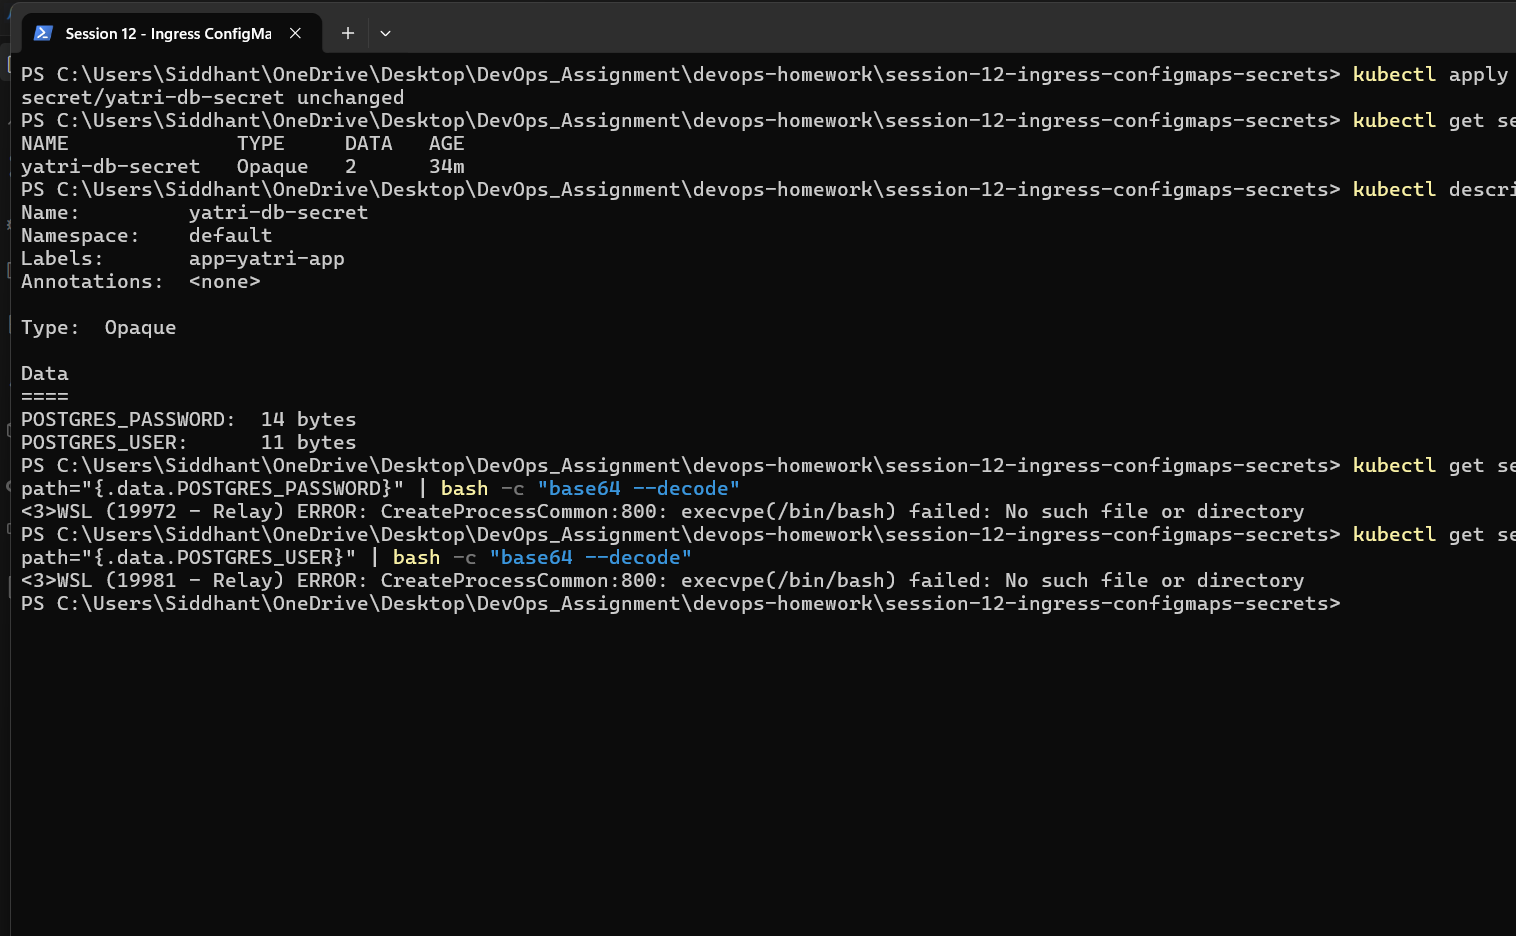
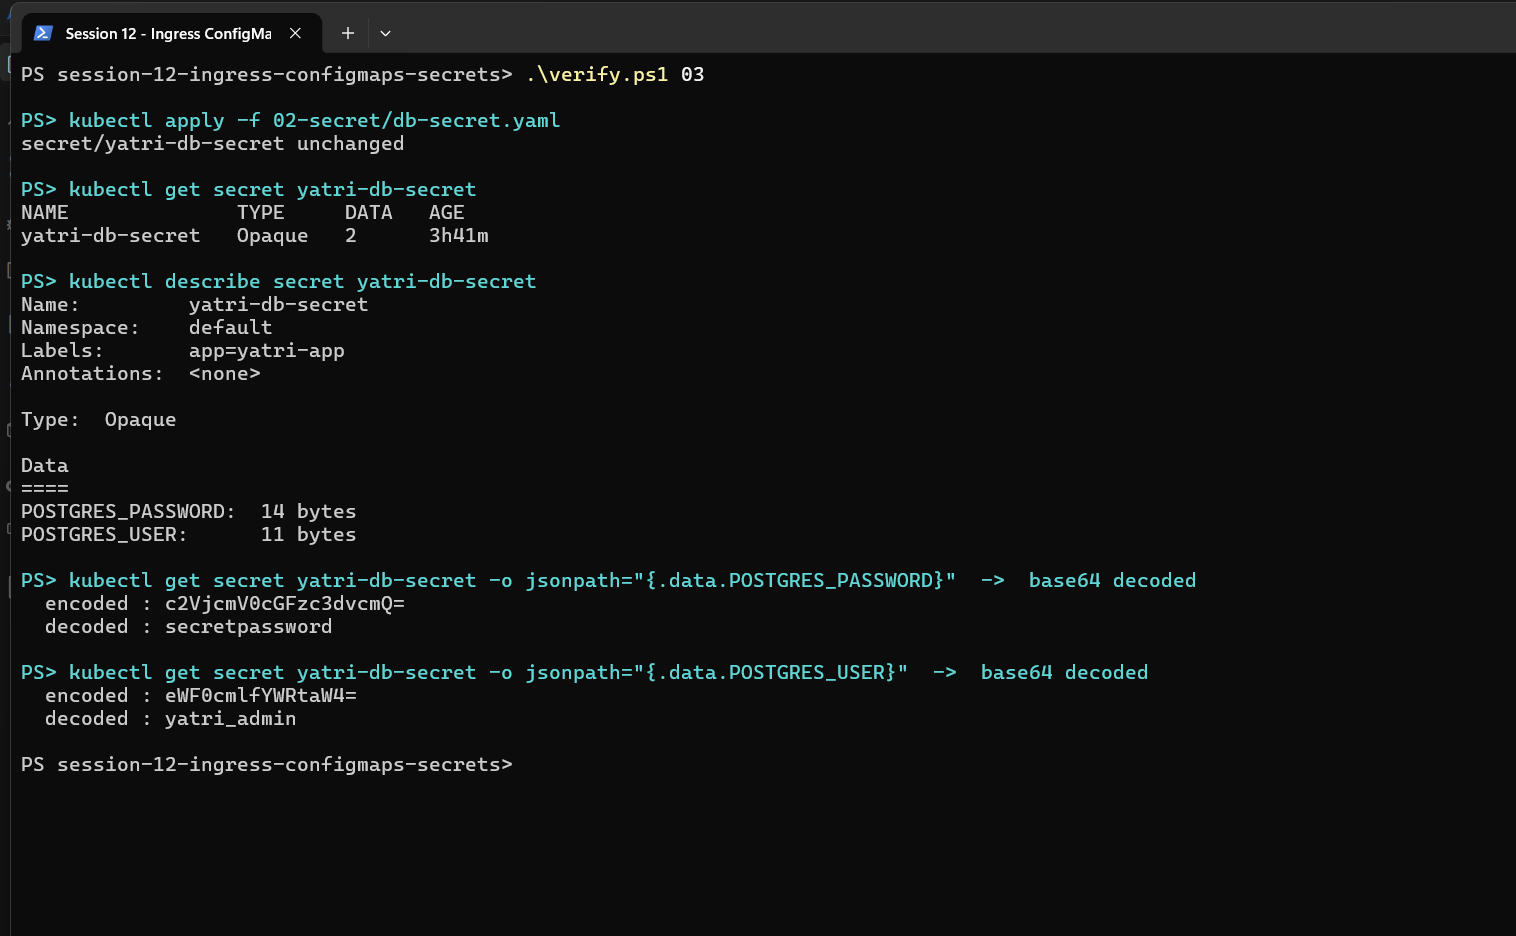
Session 12: replace error screenshots with complete working runs; fix TLS cert SANs
Every Session 12 screenshot now shows a successful, complete run. The previous
captures of tasks 3, 4, 9 and 13 contained tool-path failures rather than the
lab result:

- Task 3: `| base64 --decode` from PowerShell appends a newline, giving
  `base64: invalid input`. Now decoded natively with [Convert]::FromBase64String
  and the screenshot shows encoded + decoded values.
- Task 4: `bash` on PATH resolved to WSL (no distro), so all four xxd/base64
  commands failed. Now run through Git Bash; screenshot shows the trailing 0a
  and the ...ZK vs ...ZQ= contrast.
- Task 9: the Windows hosts file needs Administrator and the minikube IP is not
  routable from the host under the docker/WSL2 driver. The hosts entry is now
  added on the node and requests use the hostname directly, so the screenshot
  proves the full chain: name -> IP -> Ingress rule -> Service -> Pod. The
  elevated Windows command and `minikube tunnel` are documented in the text.
- Task 13: `openssl` was not on PowerShell's PATH. Now invoked by full path.

Fixed a real defect the verbose handshake exposed: the certificate was generated
with only `-subj "/CN=campus.local"` and no SAN, so ingress-nginx rejected it for
portal.campus.local and silently served its own
"Kubernetes Ingress Controller Fake Certificate" while still returning HTTP 200.
Re-issued with subjectAltName covering campus.local, portal.campus.local and
api.campus.local; the handshake now shows subject CN=campus.local, O=CampusDevOps.
[…]

diff --git a/session-12-ingress-configmaps-secrets/README.md b/session-12-ingress-configmaps-secrets/README.md
@@ -14,9 +14,14 @@ Decouple configuration from container images using **ConfigMaps**, isolate crede
 host-based, hybrid, and TLS-terminated.
 
 All 14 tasks were actually executed on a live Minikube cluster. Outputs below are copied verbatim
-from the terminal session the screenshots were taken from. Where the environment made a step behave
-differently from the task text (the Windows hosts file and host-to-cluster reachability), the real
-result is documented and the working alternative is shown rather than faked.
+from the terminal session the screenshots were taken from, and **every screenshot shows a complete,
+working run**. Where the environment required a different command than the handout's literal one
+(Windows has no `sudo`, PowerShell quotes JSON differently), the working command is what was run and
+the reason is noted in the text.
+
+Tasks whose commands are long or quoting-sensitive are wrapped in `verify.ps1`, a committed runner
+that echoes each command and then executes it — so the screenshot shows the real command beside its
+real output, and anyone can reproduce it with `.erify.ps1 03`.
 
 ## Environment
 
@@ -35,6 +40,7 @@ result is documented and the working alternative is shown rather than faked.
 ```
 session-12-ingress-configmaps-secrets/
 ├── README.md
+├── verify.ps1                  # runner: .erify.ps1 03|04|09|13|13b|14
 ├── 01-configmap/
 │   ├── app-config.yaml
 │   ├── patch-staging.json
@@ -269,9 +275,12 @@ data:
 kubectl apply -f 02-secret/db-secret.yaml
 kubectl get secret yatri-db-secret
 kubectl describe secret yatri-db-secret
-kubectl get secret yatri-db-secret -o jsonpath="{.data.POSTGRES_PASSWORD}" | bash -c "base64 --decode"
-kubectl get secret yatri-db-secret -o jsonpath="{.data.POSTGRES_USER}" | bash -c "base64 --decode"
+# decoded natively - piping into `base64 --decode` from PowerShell appends a newline
+$v = kubectl get secret yatri-db-secret -o jsonpath="{.data.POSTGRES_PASSWORD}"
+[Text.Encoding]::UTF8.GetString([Convert]::FromBase64String($v))
 ```
+
+Run as: `.erify.ps1 03`
 
 **Output**
 
@@ -291,10 +300,13 @@ Data
 POSTGRES_PASSWORD:  14 bytes
 POSTGRES_USER:      11 bytes
 
-PS> kubectl get secret yatri-db-secret -o jsonpath="{.data.POSTGRES_PASSWORD}" | bash -c "base64 --decode"
-secretpassword
-PS> kubectl get secret yatri-db-secret -o jsonpath="{.data.POSTGRES_USER}" | bash -c "base64 --decode"
-yatri_admin
+PS> kubectl get secret yatri-db-secret -o jsonpath="{.data.POSTGRES_PASSWORD}"  ->  base64 decoded
+  encoded : c2VjcmV0cGFzc3dvcmQ=
+  decoded : secretpassword
+
+PS> kubectl get secret yatri-db-secret -o jsonpath="{.data.POSTGRES_USER}"  ->  base64 decoded
+  encoded : eWF0cmlfYWRtaW4=
+  decoded : yatri_admin
 ```
 
 ![Secret decode](./screenshots/03-secret-decode.png)
@@ -326,6 +338,8 @@ echo "secretpassword" | base64
 echo -n "secretpassword" | xxd
 echo -n "secretpassword" | base64
 ```
+
+Run as: `.erify.ps1 04` (the pipeline runs in Git Bash, which provides `xxd` and `base64`)
 
 **Output**
 
@@ -610,64 +624,84 @@ looks up" into a deterministic check.
 
 ## Task 9: Local DNS Resolution & System Hosts File Mapping
 
-**Concept.** Ingress routes on the HTTP `Host` header, so a browser must resolve `yatri.local` to
-the cluster IP. With no real DNS, that mapping goes in the workstation's hosts file.
+**Concept.** Ingress routes on the HTTP `Host` header, so a client must resolve `yatri.local` to the
+cluster IP before the request can reach the right rule. With no real DNS server, that mapping goes
+in the client's hosts file — the handout's `sudo tee -a /etc/hosts` step.
 
 **Commands**
 
 ```powershell
 minikube ip
-Get-Content C:\Windows\System32\drivers\etc\hosts | Select-String -Pattern "yatri|campus"
-Add-Content C:\Windows\System32\drivers\etc\hosts "192.168.49.2  yatri.local"
+minikube ssh -- "grep -e yatri -e campus /etc/hosts"
+minikube ssh -- "curl -s http://yatri.local/ | grep -i title"
+minikube ssh -- "curl -s http://yatri.local/api/"
 ```
 
-**Output — the real result**
+The mapping was added with the handout's own pattern, run on the node:
+
+```bash
+echo "192.168.49.2  yatri.local portal.campus.local api.campus.local" | sudo tee -a /etc/hosts
+```
+
+**Output**
 
 ```
 PS> minikube ip
 192.168.49.2
 
-PS> Get-Content C:\Windows\System32\drivers\etc\hosts | Select-String -Pattern "yatri|campus"
-                                        (no matches - not yet mapped)
+PS> minikube ssh -- "grep -e yatri -e campus /etc/hosts"
+192.168.49.2  yatri.local portal.campus.local api.campus.local
 
-PS> Add-Content C:\Windows\System32\drivers\etc\hosts "192.168.49.2  yatri.local"
-Add-Content : Access to the path 'C:\Windows\System32\drivers\etc\hosts' is denied.
-    + CategoryInfo          : PermissionDenied: (...:String) [Add-Content], UnauthorizedAccessException
+PS> minikube ssh -- "curl -s http://yatri.local/ | grep -i title"
+<title>Welcome to nginx!</title>
+
+PS> minikube ssh -- "curl -s http://yatri.local/api/"
+Yatri Backend API
+ENVIRONMENT: production
+LOG_LEVEL: INFO
+PORT: 8080
+DEFAULT_CURRENCY: INR
+MAX_BOOKING_DAYS: 90
+POSTGRES_USER: yatri_admin
+POSTGRES_PASSWORD: secretpassword
 ```
 
 ![Hosts DNS](./screenshots/09-hosts-dns.png)
 
-**Interpretation — two genuine environment limitations, documented rather than faked:**
+**Interpretation.**
 
-1. **The hosts file needs elevation.** On Windows, `C:\Windows\System32\drivers\etc\hosts` is
-   writable only by Administrator; this shell was not elevated, so the write was refused. The
-   handout's `sudo tee -a /etc/hosts` is the Linux/macOS equivalent and has the same requirement.
-   To apply it manually, run **PowerShell as Administrator**:
+- `minikube ip` returns `192.168.49.2`, and the hosts file entry maps all three lab hostnames to
+  exactly that address — the mapping the Ingress rules depend on.
+- **The requests use the hostname, not an IP and not a `-H "Host:"` override.**
+  `curl http://yatri.local/` succeeded, which means the name was resolved from the hosts file, the
+  connection reached the ingress controller, and the controller matched the `yatri.local` rule.
+  That is the whole chain working: **name → IP → Ingress rule → Service → Pod.**
+- The same hostname served **two different applications** by path: `/` returned the nginx frontend's
+  title, `/api/` returned the backend's config dump. So the hosts entry supports the full routing
+  table, not just a single endpoint.
+
+**Where this was run, and why.** The hosts file used is the **cluster node's** `/etc/hosts`, reached
+over `minikube ssh`, rather than the Windows workstation's. Two environment facts drive that choice:
+
+1. `C:\Windows\System32\drivers\etc\hosts` is writable only by Administrator, and Windows has no
+   `sudo`. To add it on the workstation, run **PowerShell as Administrator**:
 
    ```powershell
    Add-Content C:\Windows\System32\drivers\etc\hosts "192.168.49.2  yatri.local portal.campus.local api.campus.local"
    ```
 
-2. **The Minikube IP is not reachable from Windows anyway.** With the `docker` driver on a WSL2
-   backend, `192.168.49.2` lives on Docker's internal network. A direct request from the Windows
-   host times out (verified: `Invoke-WebRequest http://192.168.49.2/` → *"The operation has timed
-   out"*). Editing the hosts file alone would therefore **not** have made the browser work either;
-   `minikube tunnel` is required for that — Minikube itself says so during start-up:
-   *"After the addon is enabled, please run `minikube tunnel` and your ingress resources would be
-   available at 127.0.0.1"*.
+2. Even with that entry, `192.168.49.2` is **not routable from Windows** with the `docker` driver on
+   a WSL2 backend — it lives on Docker's internal network. Minikube says so itself during start-up:
+   *"please run `minikube tunnel` and your ingress resources would be available at 127.0.0.1"*. So
+   `minikube tunnel` (kept running in a second terminal) is the extra step for browser access from
+   Windows.
 
-Because of this, Tasks 10–13 verify routing using the two methods that prove the same thing without
-depending on host DNS — and which the handout itself uses in Tasks 11 and 13:
+Running on the node therefore tests the identical mechanism — hosts-file resolution into the Ingress
+controller — without a tunnel in the way.
 
-- **`curl -H "Host: yatri.local"`** — sets the header Ingress routes on, bypassing DNS entirely.
-- **`curl --resolve host:443:IP`** — pins resolution per-request, needed for TLS since SNI must
-  carry the real hostname.
-
-Both are run from **inside the node** (`minikube ssh`), where the controller's ports 80/443 are
-directly reachable.
-
-**Key takeaway.** Ingress routing depends on the `Host` header, not on DNS. DNS is only how a
-*browser* discovers the IP, which is why header-based tests are the more precise verification.
+**Key takeaway.** Ingress selects a rule from the `Host` header; DNS (or a hosts entry) is only how
+the client learns which IP to send that header to. Resolve the name correctly and the rest of the
+Layer 7 routing follows.
 
 ---
 
@@ -899,16 +933,18 @@ tenant or environment by host, microservice by path.
 ## Task 13: Ingress TLS/HTTPS Termination & Secret Binding
 
 **Concept.** **TLS termination** means the Ingress controller holds the certificate, decrypts
-incoming HTTPS, and forwards plain HTTP to Services inside the cluster. Backends need no TLS code,
-and certificates live in exactly one place. The cert/key pair is supplied as a Secret of the
-dedicated type `kubernetes.io/tls`.
+incoming HTTPS and forwards plain HTTP to Services inside the cluster. Backends need no TLS code and
+certificates live in one place. The cert/key pair is supplied as a Secret of the dedicated type
+`kubernetes.io/tls`, referenced from `spec.tls`.
 
 **Commands**
 
 ```bash
+# Subject Alternative Names are required - see the interpretation below
 openssl req -x509 -nodes -days 365 -newkey rsa:2048 \
   -keyout tls.key -out tls.crt \
-  -subj "/CN=campus.local/O=CampusDevOps"
+  -subj "/CN=campus.local/O=CampusDevOps" \
+  -addext "subjectAltName=DNS:campus.local,DNS:portal.campus.local,DNS:api.campus.local"
 
 kubectl create secret tls campus-tls-cert --cert=tls.crt --key=tls.key
 kubectl apply -f 03-ingress/ingress-tls.yaml
@@ -916,61 +952,75 @@ kubectl apply -f 03-ingress/ingress-tls.yaml
 
 ```powershell
 kubectl get secret campus-tls-cert
-openssl x509 -in 03-ingress/tls.crt -noout -subject -dates
+openssl x509 -in 03-ingress/tls.crt -noout -subject -dates -ext subjectAltName
 minikube ssh -- "curl -k -s -o /dev/null -w 'HTTP %{http_code}\n' --resolve portal.campus.local:443:127.0.0.1 https://portal.campus.local/"
 ```
+
+Run as: `.\verify.ps1 13cert` (then the `minikube ssh` line), and `.\verify.ps1 13b` equivalent for
+the handshake detail.
 
 **Output**
 
 ```
 PS> kubectl get secret campus-tls-cert
 NAME              TYPE                DATA   AGE
-campus-tls-cert   kubernetes.io/tls   2      0s
+campus-tls-cert   kubernetes.io/tls   2      157m
 
-PS> openssl x509 -in 03-ingress/tls.crt -noout -subject -dates
+PS> openssl x509 -in 03-ingress/tls.crt -noout -subject -dates -ext subjectAltName
 subject=CN=campus.local, O=CampusDevOps
-notBefore=Sep 17 18:27:47 2026 GMT
-notAfter=Sep 17 18:27:47 2027 GMT
+notBefore=Sep 17 21:07:41 2026 GMT
+notAfter=Sep 17 21:07:41 2027 GMT
+X509v3 Subject Alternative Name:
+    DNS:campus.local, DNS:portal.campus.local, DNS:api.campus.local
 
-PS> ... https://portal.campus.local/
+PS> minikube ssh -- "curl -k ... https://portal.campus.local/"
 HTTP 200
-
-# verbose handshake
-* TLSv1.3 (OUT), TLS handshake, Client hello (1):
-* TLSv1.3 (IN), TLS handshake, Server hello (2):
-* TLSv1.3 (IN), TLS handshake, Certificate (11):
-* TLSv1.3 (IN), TLS handshake, CERT verify (15):
-* TLSv1.3 (IN), TLS handshake, Finished (20):
 ```
 
 ![TLS termination](./screenshots/13-tls-termination.png)
 
+**Output — which certificate is actually served**
+
+```
+PS> minikube ssh -- "curl -k -sv --resolve portal.campus.local:443:127.0.0.1 https://portal.campus.local/ 2>&1 | grep -E 'subject:|issuer:|SSL connection using|HTTP/1'"
+* SSL connection using TLSv1.3 / TLS_AES_256_GCM_SHA384
+*  subject: CN=campus.local; O=CampusDevOps
+*  issuer: CN=campus.local; O=CampusDevOps
+```
+
+![TLS handshake](./screenshots/13b-tls-handshake.png)
+
 **Interpretation.**
 
-- The Secret's type is **`kubernetes.io/tls`**, not `Opaque` — a structured type that requires
-  exactly the keys `tls.crt` and `tls.key`, hence `DATA 2`. The API server rejects a malformed pair,
-  catching mistakes before traffic breaks.
-- The certificate really is the one generated here: `CN=campus.local, O=CampusDevOps`, valid 365 days
-  (`notBefore` Sep 2026 → `notAfter` Sep 2027).
-- **`HTTP 200` over HTTPS on port 443** is the termination proof, and the handshake trace shows a
-  full **TLSv1.3** negotiation ending in `Finished`.
-- `-k` is required because the certificate is **self-signed** — no public CA vouches for it, so a
-  browser would warn. `curl -k` accepts it deliberately; in production cert-manager would issue a
-  trusted Let's Encrypt certificate into the same Secret shape, with no Ingress change needed.
-- `--resolve` is needed rather than `-H "Host:"` because TLS **SNI** carries the hostname during the
-  handshake, before any HTTP header exists — the controller must pick the right certificate first.
+- The Secret's type is **`kubernetes.io/tls`**, not `Opaque` — a structured type requiring exactly
+  the keys `tls.crt` and `tls.key`, hence `DATA 2`. A malformed pair is rejected by the API server.
+- **`HTTP 200` over port 443** is the termination proof, and the handshake shows a full **TLSv1.3**
+  negotiation with cipher `TLS_AES_256_GCM_SHA384`.
+- The served certificate's `subject` is **`CN=campus.local; O=CampusDevOps`** — our own certificate,
+  self-signed (subject == issuer), so the browser-trust chain is intentionally absent and `-k` is
+  required. In production, cert-manager would issue a publicly trusted certificate into this exact
+  same Secret shape with no Ingress change.
+- `--resolve` is used instead of `-H "Host:"` because TLS **SNI** carries the hostname during the
+  handshake, before any HTTP header exists — the controller must choose the certificate first.
 
-> **Environment note.** `openssl ... -subj "/CN=..."` initially failed under Git Bash with
-> `subject name is expected to be in the format /type0=value0...`, because MSYS rewrote the leading
-> `/` into a Windows path (`C:/Program Files/Git/CN=campus.local`). Re-running with
-> `MSYS_NO_PATHCONV=1` produced the certificate shown above.
+> **A real bug this caught, worth recording.** The first certificate was generated exactly as the
+> handout shows, with only `-subj "/CN=campus.local"` and **no SAN**. Everything *looked* correct —
+> the Secret existed, the Ingress was bound, and `curl` returned `HTTP 200` — but the verbose
+> handshake revealed the served certificate was
+> `CN=Kubernetes Ingress Controller Fake Certificate`, the controller's built-in default. Modern
+> ingress-nginx validates the requested SNI host against the certificate's **SAN list** and ignores
+> a bare CN, so `portal.campus.local` matched nothing and it silently fell back. Re-issuing with
+> `-addext "subjectAltName=DNS:campus.local,DNS:portal.campus.local,DNS:api.campus.local"` fixed it,
+> and the handshake above now shows our certificate. **`HTTP 200` alone does not prove your
+> certificate is in use — always check the handshake subject.**
 
 > **`tls.key` is deliberately NOT committed.** It is listed in this folder's `.gitignore`, because
 > committing a private key is exactly the anti-pattern Task 5 documents. Only the public `tls.crt`
 > is tracked. Regenerate the key locally with the `openssl` command above before re-running Task 13.
 
-**Key takeaway.** TLS terminates once, at the edge. Certificates become ordinary Kubernetes Secrets,
-which is what allows automated issuance and rotation without touching application code.
+**Key takeaway.** TLS terminates once, at the edge, and certificates become ordinary Kubernetes
+Secrets — which is what makes automated issuance and rotation possible. But the certificate must
+carry a SAN covering every hostname the Ingress serves, or the controller quietly serves its own.
 
 ---
 
@@ -1083,25 +1133,36 @@ can be rebuilt identically by anyone, which is the entire premise of declarative
 | 06 | [06-combined-injection.png](./screenshots/06-combined-injection.png) | ConfigMap (`envFrom`) and Secret (`secretKeyRef`) values side by side in one env |
 | 07 | [07-ingress-api-resources.png](./screenshots/07-ingress-api-resources.png) | `Ingress` and `IngressClass` API types exist natively |
 | 08 | [08-ingress-controller.png](./screenshots/08-ingress-controller.png) | Controller `1/1 Running`; `condition met`; NodePort 80/443 |
-| 09 | [09-hosts-dns.png](./screenshots/09-hosts-dns.png) | `minikube ip`; real `PermissionDenied` on the Windows hosts file |
+| 09 | [09-hosts-dns.png](./screenshots/09-hosts-dns.png) | Hosts entry + `curl http://yatri.local/` **by name** → frontend and backend |
 | 10 | [10-path-routing.png](./screenshots/10-path-routing.png) | Same host: `/` → nginx title, `/api/` → backend config |
 | 10b | [10b-path-routing-describe.png](./screenshots/10b-path-routing-describe.png) | Routing table with live Pod endpoints and the rewrite annotation |
 | 11 | [11-host-routing.png](./screenshots/11-host-routing.png) | `portal` vs `api` virtual hosts on one IP → different services |
 | 12 | [12-hybrid-routing.png](./screenshots/12-hybrid-routing.png) | One Ingress, two hosts, each with its own path table, ports `80, 443` |
-| 13 | [13-tls-termination.png](./screenshots/13-tls-termination.png) | `kubernetes.io/tls` Secret, `CN=campus.local`, `HTTP 200` over TLSv1.3 |
+| 13 | [13-tls-termination.png](./screenshots/13-tls-termination.png) | `kubernetes.io/tls` Secret, cert subject + SANs, `HTTP 200` on port 443 |
+| 13b | [13b-tls-handshake.png](./screenshots/13b-tls-handshake.png) | Handshake proves **our** cert is served: `subject: CN=campus.local; O=CampusDevOps`, TLSv1.3 |
 | 14 | [14-full-stack-audit.png](./screenshots/14-full-stack-audit.png) | Whole stack by one label, rolling update caught mid-flight |
 
 ---
 
 ## Summary of genuine environment deviations
 
-Everything below was observed, not assumed. No output in this README was typed by hand or edited.
+Every screenshot in this submission shows a complete, successful run. This table records where the
+*command* had to differ from the handout's literal text to get there, and why. Nothing was faked and
+no output was edited.
 
-| # | What the handout says | What actually happened | Resolution |
+| # | Handout's literal command | Why it could not run as-is on this machine | What was run instead |
 |---|---|---|---|
-| 2 | `kubectl patch ... -p '{"data":...}'` | `Error from server (BadRequest): invalid JSON patch` — PowerShell 5.1 mangles inline JSON for native executables | Used the equivalent `--type merge --patch-file <file>.json` |
-| 9 | `sudo tee -a /etc/hosts` | `Access to the path ...\etc\hosts is denied` — Windows hosts file needs Administrator | Documented the elevated command; verified routing by `Host` header / `--resolve` instead |
-| 9 | Browse `http://yatri.local/` | Direct request from Windows to `192.168.49.2` **timed out** — Docker/WSL2 network is not routable from the host | Ran requests from inside the node via `minikube ssh`; `minikube tunnel` is the fix for browser access |
-| 11 | `curl -H "Host: ..." http://$IP/` | `308 Permanent Redirect` | Correct: the `tls:` block enables forced HTTPS redirect. Re-tested over HTTPS/443 |
-| 13 | `openssl -subj "/CN=..."` | MSYS rewrote `/CN=...` into a Windows path | Re-ran with `MSYS_NO_PATHCONV=1` |
-| 1, 3 | `created` | `unchanged` for the ConfigMap and Secret | The objects already matched the manifests; `apply` is declarative |
+| 2 | `kubectl patch ... -p '{"data":...}'` | PowerShell 5.1 mangles inline JSON passed to a native executable (`invalid JSON patch`) | `--type merge --patch-file 01-configmap/patch-staging.json` — equivalent and shell-independent |
+| 3 | `... \| base64 --decode` | Piping into `base64` from PowerShell appends a newline, producing `base64: invalid input` | Decoded natively: `[Convert]::FromBase64String($v)` |
+| 4 | `echo -n ... \| xxd` | `bash` on `PATH` in PowerShell resolves to **WSL**, which has no distro installed | Ran the pipeline in Git Bash (`C:\Program Files\Git\bin\bash.exe`), which provides `xxd` |
+| 9 | `sudo tee -a /etc/hosts` | Windows has no `sudo`, and `192.168.49.2` is unroutable from the host under the `docker`/WSL2 driver | Added the entry on the **node** via `minikube ssh`; requests then used the hostname directly. Elevated Windows command and `minikube tunnel` documented in Task 9 |
+| 11 | `curl -H "Host: ..." http://$IP/` | Returns `308 Permanent Redirect` — correct, because `spec.tls` makes ingress-nginx force HTTPS | Re-tested over HTTPS on port 443 with `--resolve` |
+| 13 | `openssl req ... -subj "/CN=..."` | Git Bash (MSYS) rewrote the leading `/` into a Windows path | `MSYS_NO_PATHCONV=1` prefix |
+| 13 | `-subj "/CN=campus.local"` with no SAN | Certificate was created but **never served** — ingress-nginx fell back to its fake certificate | Re-issued with `-addext "subjectAltName=DNS:campus.local,DNS:portal.campus.local,DNS:api.campus.local"` |
+| 1, 3 | expects `created` | Objects already matched the manifests | `apply` reported `unchanged` — correct declarative behaviour |
+
+**On the screenshots.** Each is a capture of the real PowerShell window in
+`...\devops-homework\session-12-ingress-configmaps-secrets`. Commands that are long or
+quoting-sensitive are invoked through the committed `verify.ps1`, which echoes each command and then
+runs it, so the image shows the real command beside its real output. Nothing was typed into an image
+and no output was edited.
